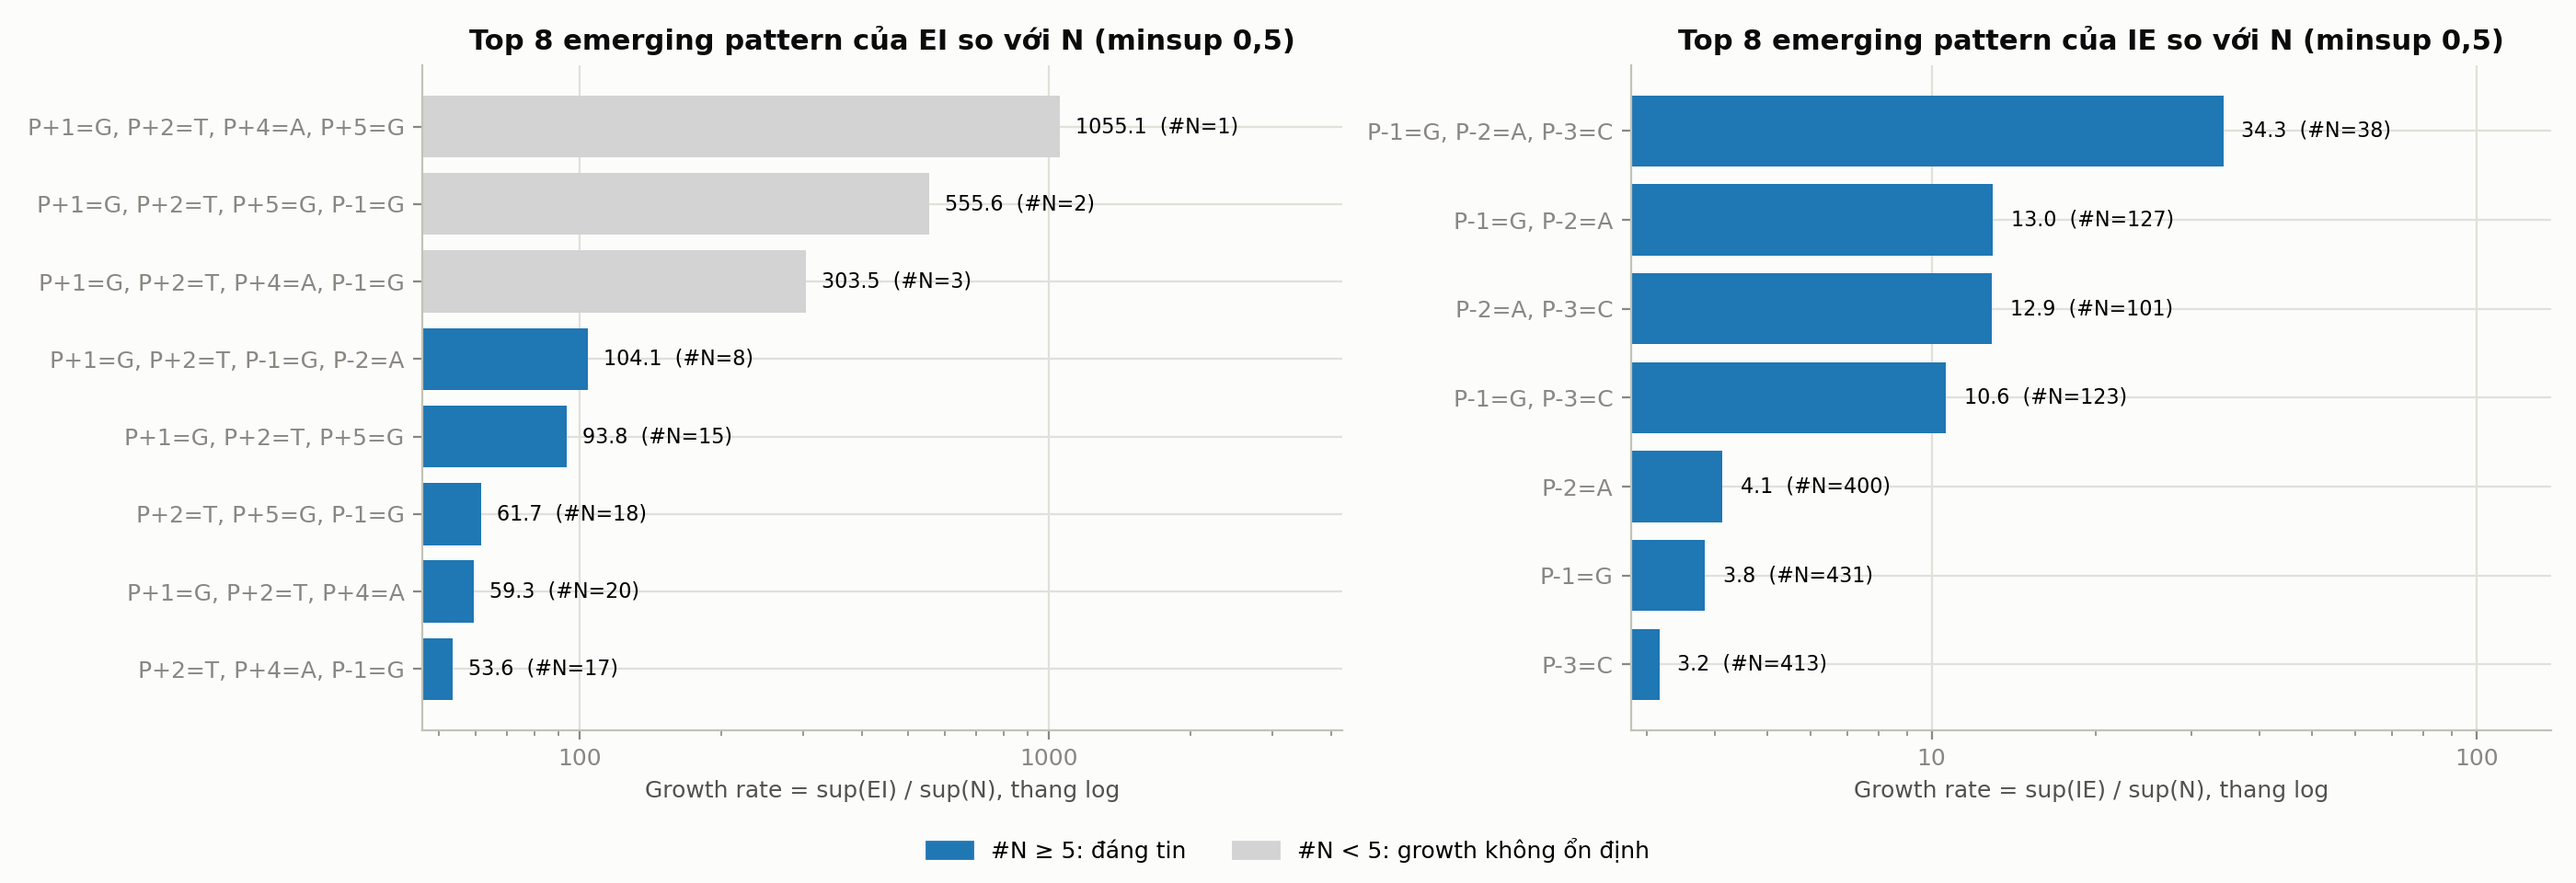
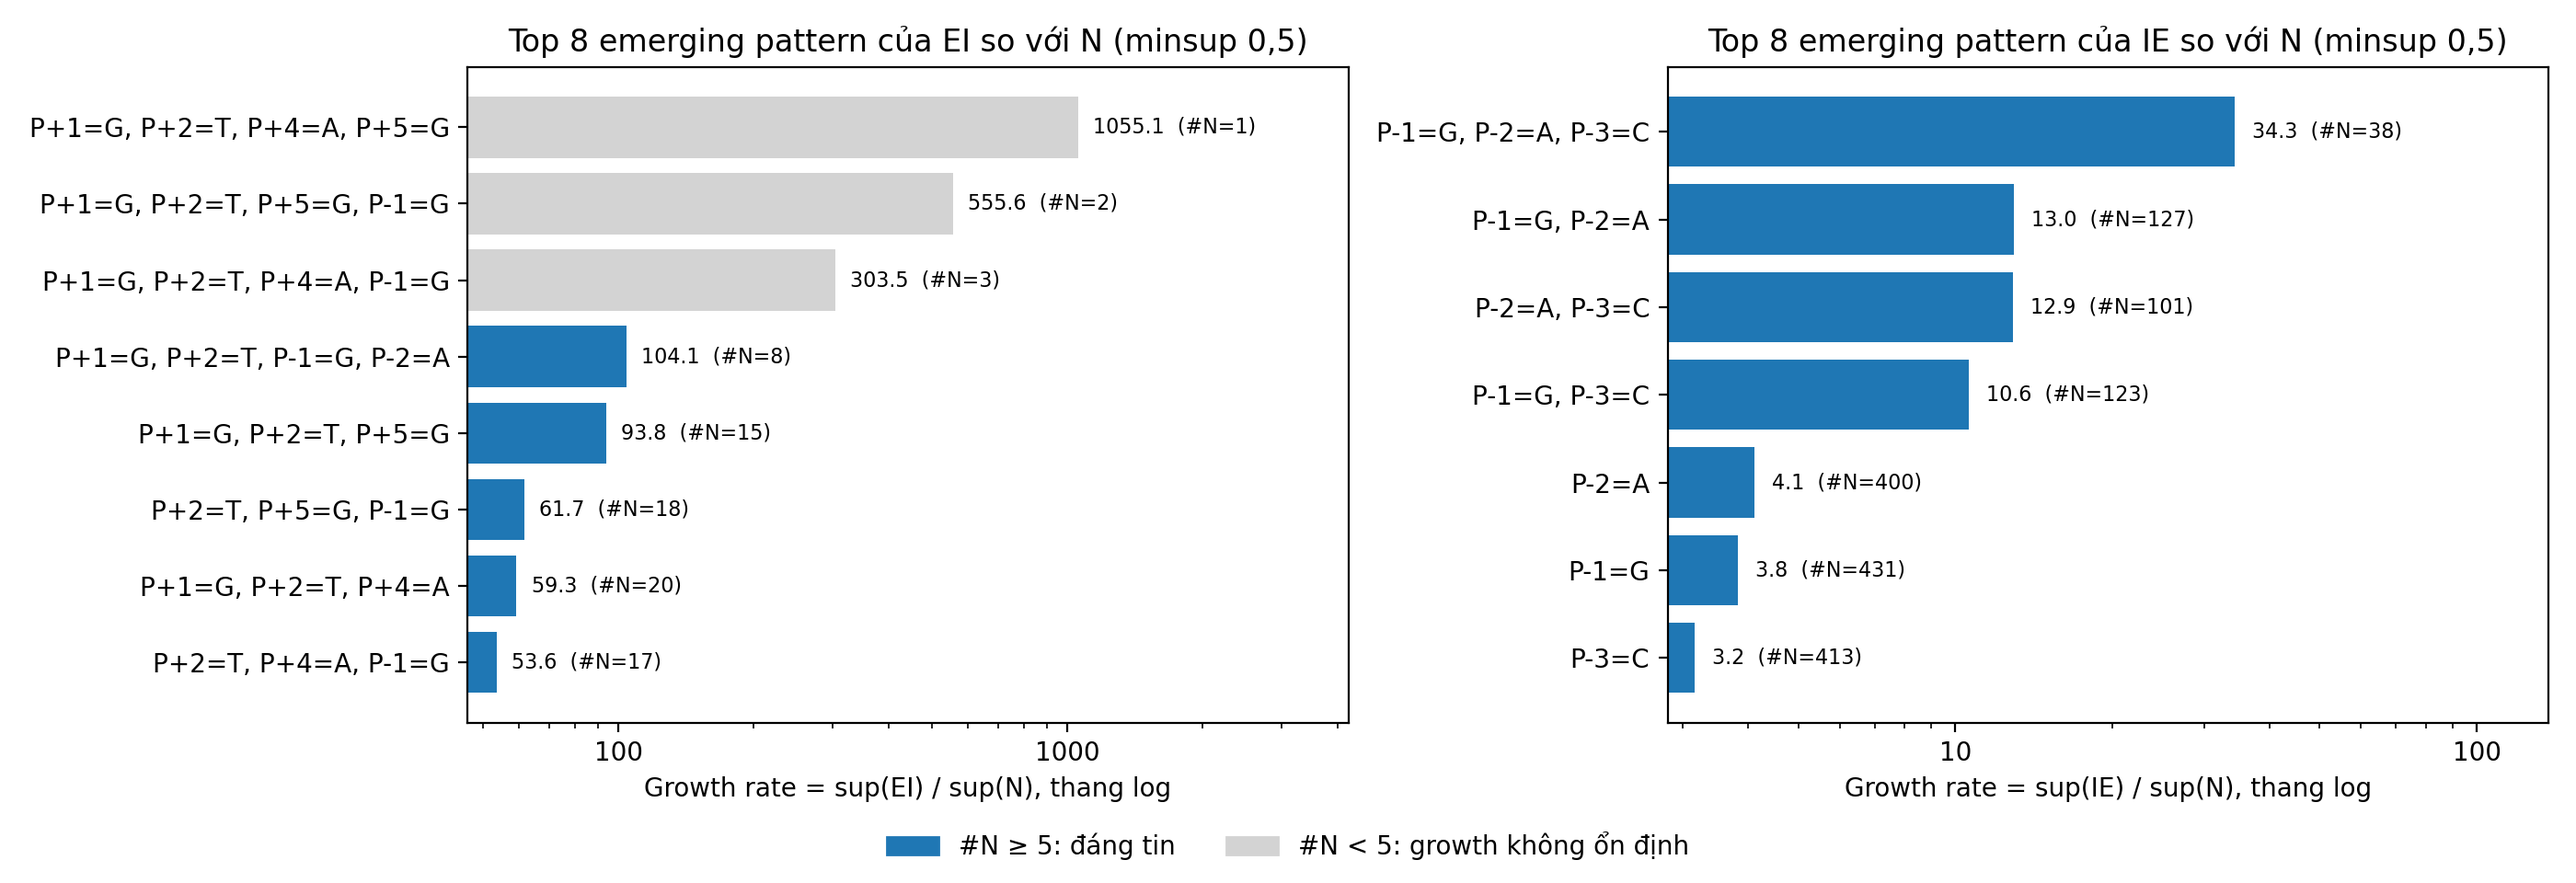
app2_ plot

diff --git a/scripts/app2_plot.py b/scripts/app2_plot.py
@@ -33,60 +33,64 @@ def position_profile(seqs):
 
 
 def plot_profile(rows):
-    fig, axes = plt.subplots(3, 1, figsize=(12, 7), sharex=True)
-    for ax, label in zip(axes, LABELS):
-        seqs = [seq for lab, seq in rows if lab == label]
-        prof = position_profile(seqs)
+    # dùng kiểu vẽ mặc định, không bị ảnh hưởng bởi plt.rcParams đã đổi ở phần trước của notebook
+    with plt.style.context("default"):
+        fig, axes = plt.subplots(3, 1, figsize=(12, 7), sharex=True)
+        for ax, label in zip(axes, LABELS):
+            seqs = [seq for lab, seq in rows if lab == label]
+            prof = position_profile(seqs)
 
-        im = ax.imshow(prof, aspect="auto", cmap="Blues", vmin=0, vmax=1)
-        ax.set_yticks(range(4))
-        ax.set_yticklabels(list(BASES))
-        ax.set_title(f"{label} ({len(seqs)} mẫu)")
-        ax.axvline(29.5, color="red", linewidth=1)   # ranh giới giữa -1 và +1
+            im = ax.imshow(prof, aspect="auto", cmap="Blues", vmin=0, vmax=1)
+            ax.set_yticks(range(4))
+            ax.set_yticklabels(list(BASES))
+            ax.set_title(f"{label} ({len(seqs)} mẫu)")
+            ax.axvline(29.5, color="red", linewidth=1)   # ranh giới giữa -1 và +1
 
-    ticks = [0, 5, 10, 15, 20, 25, 30, 34, 39, 44, 49, 54, 59]
-    axes[-1].set_xticks(ticks)
-    axes[-1].set_xticklabels([position_name(i) for i in ticks])
-    axes[-1].set_xlabel("Vị trí so với ranh giới (vạch đỏ = ranh giới, giữa -1 và +1)")
-    fig.suptitle("Tỉ lệ từng nucleotide tại mỗi vị trí, theo nhóm (càng đậm càng phổ biến)")
-    fig.colorbar(im, ax=axes, label="Tỉ lệ mẫu")
-    fig.savefig(f"{FIG_DIR}/app2_profile.png", dpi=200, bbox_inches="tight")
-    plt.close(fig)
-    print(f"Đã lưu {FIG_DIR}/app2_profile.png")
+        ticks = [0, 5, 10, 15, 20, 25, 30, 34, 39, 44, 49, 54, 59]
+        axes[-1].set_xticks(ticks)
+        axes[-1].set_xticklabels([position_name(i) for i in ticks])
+        axes[-1].set_xlabel("Vị trí so với ranh giới (vạch đỏ = ranh giới, giữa -1 và +1)")
+        fig.suptitle("Tỉ lệ từng nucleotide tại mỗi vị trí, theo nhóm (càng đậm càng phổ biến)")
+        fig.colorbar(im, ax=axes, label="Tỉ lệ mẫu")
+        fig.savefig(f"{FIG_DIR}/app2_profile.png", dpi=200, bbox_inches="tight")
+        plt.close(fig)
+        print(f"Đã lưu {FIG_DIR}/app2_profile.png")
 
 
 def plot_emerging(groups, code, top_k=8, min_n=5):
     """Top emerging pattern theo growth. Thanh xám: #N < min_n, growth không ổn định."""
-    name_of = invert_code(code)
-    fig, axes = plt.subplots(1, 2, figsize=(14, 4.8))
-    for ax, label in zip(axes, ["EI", "IE"]):
-        rows = emerging(groups[label], groups["N"], 0.5)
-        rows.sort(key=lambda r: (r[3], r[1]), reverse=True)
-        rows = rows[:top_k][::-1]                    # đảo ngược để thanh lớn nhất nằm trên cùng
+    # dùng kiểu vẽ mặc định, không bị ảnh hưởng bởi plt.rcParams đã đổi ở phần trước của notebook
+    with plt.style.context("default"):
+        name_of = invert_code(code)
+        fig, axes = plt.subplots(1, 2, figsize=(14, 4.8))
+        for ax, label in zip(axes, ["EI", "IE"]):
+            rows = emerging(groups[label], groups["N"], 0.5)
+            rows.sort(key=lambda r: (r[3], r[1]), reverse=True)
+            rows = rows[:top_k][::-1]                    # đảo ngược để thanh lớn nhất nằm trên cùng
 
-        names = [", ".join(name_of[i] for i in r[0]) for r in rows]
-        growth = [r[3] for r in rows]
-        mau = ["tab:blue" if r[4] >= min_n else "lightgray" for r in rows]
-        ax.barh(names, growth, color=mau)
-        for y, r in enumerate(rows):
-            ax.text(r[3] * 1.08, y, f"{r[3]:.1f}  (#N={r[4]})", va="center", fontsize=8)
+            names = [", ".join(name_of[i] for i in r[0]) for r in rows]
+            growth = [r[3] for r in rows]
+            mau = ["tab:blue" if r[4] >= min_n else "lightgray" for r in rows]
+            ax.barh(names, growth, color=mau)
+            for y, r in enumerate(rows):
+                ax.text(r[3] * 1.08, y, f"{r[3]:.1f}  (#N={r[4]})", va="center", fontsize=8)
 
-        ax.set_xscale("log")
-        ax.set_xlim(right=max(growth) * 4)            # chừa chỗ cho nhãn, không bị cắt
-        ax.xaxis.set_major_formatter(FuncFormatter(lambda v, _: f"{v:g}"))
-        ax.xaxis.set_minor_formatter(FuncFormatter(lambda v, _: ""))
-        ax.set_xlabel(f"Growth rate = sup({label}) / sup(N), thang log")
-        ax.set_title(f"Top {top_k} emerging pattern của {label} so với N (minsup 0,5)")
+            ax.set_xscale("log")
+            ax.set_xlim(right=max(growth) * 4)            # chừa chỗ cho nhãn, không bị cắt
+            ax.xaxis.set_major_formatter(FuncFormatter(lambda v, _: f"{v:g}"))
+            ax.xaxis.set_minor_formatter(FuncFormatter(lambda v, _: ""))
+            ax.set_xlabel(f"Growth rate = sup({label}) / sup(N), thang log")
+            ax.set_title(f"Top {top_k} emerging pattern của {label} so với N (minsup 0,5)")
 
-    # chú thích màu dùng chung
-    from matplotlib.patches import Patch
-    fig.legend(handles=[Patch(color="tab:blue", label=f"#N ≥ {min_n}: đáng tin"),
-                        Patch(color="lightgray", label=f"#N < {min_n}: growth không ổn định")],
-               loc="lower center", ncol=2, frameon=False)
-    fig.tight_layout(rect=(0, 0.06, 1, 1))
-    fig.savefig(f"{FIG_DIR}/app2_emerging.png", dpi=200)
-    plt.close(fig)
-    print(f"Đã lưu {FIG_DIR}/app2_emerging.png")
+        # chú thích màu dùng chung
+        from matplotlib.patches import Patch
+        fig.legend(handles=[Patch(color="tab:blue", label=f"#N ≥ {min_n}: đáng tin"),
+                            Patch(color="lightgray", label=f"#N < {min_n}: growth không ổn định")],
+                   loc="lower center", ncol=2, frameon=False)
+        fig.tight_layout(rect=(0, 0.06, 1, 1))
+        fig.savefig(f"{FIG_DIR}/app2_emerging.png", dpi=200)
+        plt.close(fig)
+        print(f"Đã lưu {FIG_DIR}/app2_emerging.png")
 
 
 def main():
